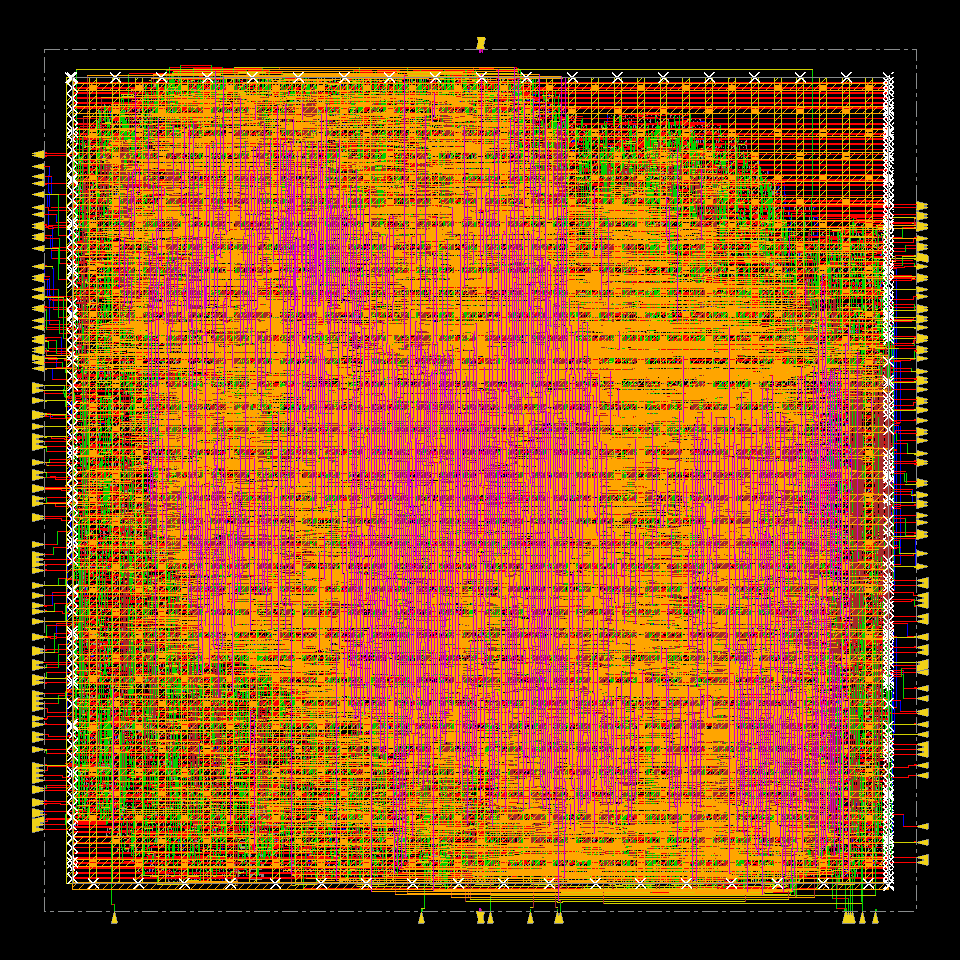
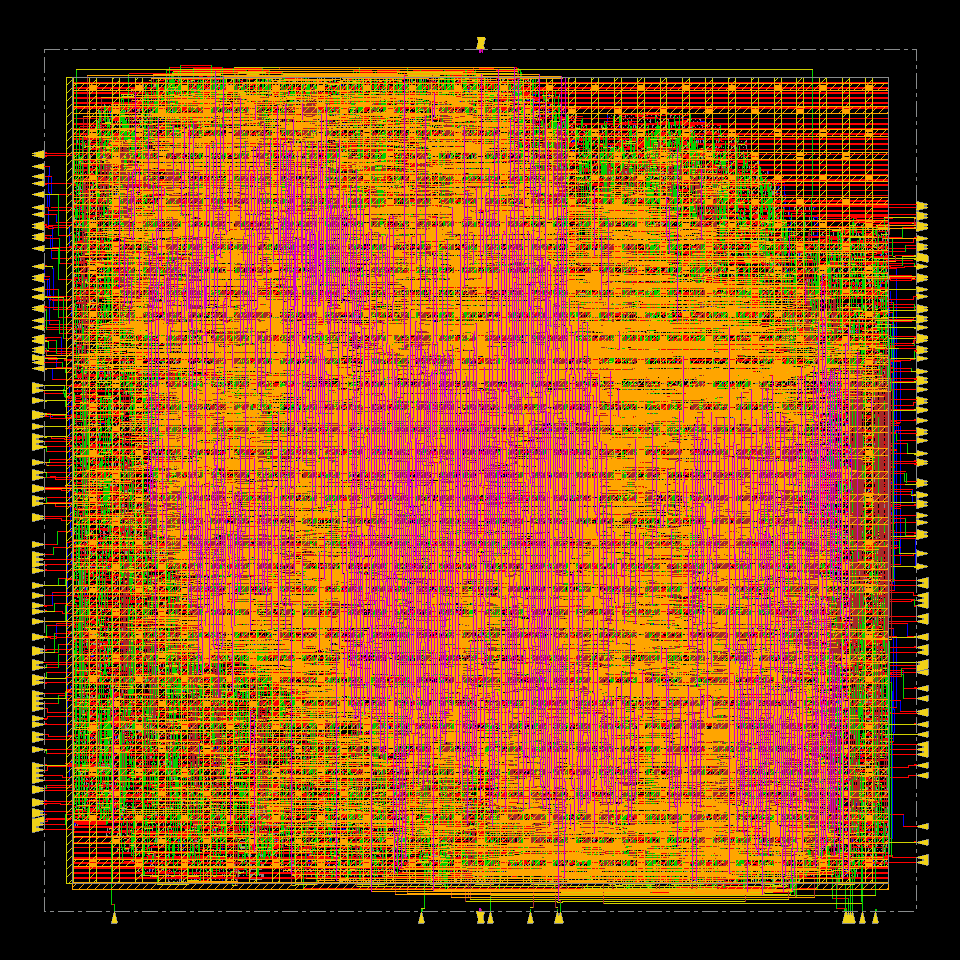
Show marker-free Innovus layouts across two process nodes

diff --git a/index.html b/index.html
@@ -8,8 +8,8 @@
   <meta name="robots" content="noindex,nofollow,noarchive">
   <title>CRAFT — Evidence into engineering</title>
   <link rel="icon" href="assets/craft-icon.svg?v=trace-2" type="image/svg+xml">
-  <link rel="stylesheet" href="styles.css?v=layouts-1">
-  <script src="app.js?v=layouts-1" defer></script>
+  <link rel="stylesheet" href="styles.css?v=layouts-2">
+  <script src="app.js?v=layouts-2" defer></script>
   <script src="pipeline.js?v=trace-2" defer></script>
 </head>
 <body>
@@ -30,7 +30,7 @@
       </div>
       <div class="hero-visual">
         <div class="visual-top"><span><span class="status-dot"></span> PHYSICAL EVIDENCE</span><span>28 nm / CPU TILE</span></div>
-        <div class="chip-window" role="img" aria-label="CPU Tile post-route layout exported from an actual CRAFT experiment in Innovus"></div>
+        <div class="chip-window" role="img" aria-label="Commercial 28 nm CPU Tile post-route layout exported from an actual CRAFT experiment in Innovus"></div>
         <div class="hero-loop"><span>Observe</span><b>→</b><span>Diagnose</span><b>→</b><span>Intervene</span><b>→</b><span>Verify</span></div>
         <div class="visual-bottom"><span>One decision.<br><strong>An inspectable evidence trail.</strong></span><a href="#trace" aria-label="Read the manuscript decision example">↗</a></div>
         <div class="visual-label">INNOVUS · POST-ROUTE SNAPSHOT</div>
@@ -126,13 +126,24 @@
       <noscript><p>Enable JavaScript to explore the numeric tables and decision trace. The original manuscript figures remain available below.</p></noscript>
     </div></section>
     <section class="layout-section" id="layouts"><div class="wrap section">
-      <div class="section-heading"><div><p class="eyebrow">06 / PHYSICAL IMPLEMENTATION</p><h2>From decisions<br><em>to routed designs.</em></h2></div><p>Selected post-route layouts from CRAFT experiments, exported directly from Innovus. Open a design to inspect the full-resolution image.</p></div>
-      <div class="final-layout-gallery" aria-label="Selected Innovus final layouts">
-        <figure class="final-layout-card"><button type="button" class="layout-open" data-layout="true" data-image="assets/innovus-cpu-tile-full.png" data-caption="CPU Tile · Innovus post-route layout" aria-label="Inspect CPU Tile final layout"><img src="assets/innovus-cpu-tile-preview.png" width="960" height="960" alt="CPU Tile routed layout from a CRAFT experiment, exported in Innovus" loading="lazy"><span>Inspect layout ↗</span></button><figcaption><strong>CPU Tile</strong><span>INNOVUS / POST-ROUTE</span></figcaption></figure>
-        <figure class="final-layout-card"><button type="button" class="layout-open" data-layout="true" data-image="assets/innovus-noc-router-full.png" data-caption="NoCRouter · Innovus post-route layout" aria-label="Inspect NoCRouter final layout"><img src="assets/innovus-noc-router-preview.png" width="960" height="960" alt="NoCRouter routed layout from a CRAFT experiment, exported in Innovus" loading="lazy"><span>Inspect layout ↗</span></button><figcaption><strong>NoCRouter</strong><span>INNOVUS / POST-ROUTE</span></figcaption></figure>
-        <figure class="final-layout-card"><button type="button" class="layout-open" data-layout="true" data-image="assets/innovus-riscv-cpu-full.png" data-caption="RISC-V CPU · Innovus post-route layout" aria-label="Inspect RISC-V CPU final layout"><img src="assets/innovus-riscv-cpu-preview.png" width="960" height="960" alt="RISC-V CPU routed layout from a CRAFT experiment, exported in Innovus" loading="lazy"><span>Inspect layout ↗</span></button><figcaption><strong>RISC-V CPU</strong><span>INNOVUS / POST-ROUTE</span></figcaption></figure>
+      <div class="section-heading"><div><p class="eyebrow">06 / PHYSICAL IMPLEMENTATION</p><h2>From decisions<br><em>to routed designs.</em></h2></div><p>Selected post-route layouts across SKY130 and commercial 28 nm, exported directly from CRAFT experiments in Innovus. Open a design to inspect the full-resolution image.</p></div>
+      <div class="layout-gallery-groups">
+        <section class="layout-node-group" aria-labelledby="layouts-sky130"><div class="layout-node-heading"><h3 id="layouts-sky130">SKY130</h3><span>INNOVUS / POST-ROUTE</span></div>
+          <div class="final-layout-gallery" aria-label="SKY130 final layouts">
+            <figure class="final-layout-card"><button type="button" class="layout-open" data-layout="true" data-image="assets/innovus-sky130-cpu-tile-full.png?v=layouts-2" data-caption="CPU Tile · SKY130 · Innovus post-route layout" aria-label="Inspect CPU Tile SKY130 final layout"><img src="assets/innovus-sky130-cpu-tile-preview.png?v=layouts-2" width="960" height="960" alt="CPU Tile SKY130 routed layout from a CRAFT experiment, exported in Innovus" loading="lazy"><span>Inspect layout ↗</span></button><figcaption><strong>CPU Tile</strong><span>SKY130</span></figcaption></figure>
+            <figure class="final-layout-card"><button type="button" class="layout-open" data-layout="true" data-image="assets/innovus-sky130-noc-router-full.png?v=layouts-2" data-caption="NoCRouter · SKY130 · Innovus post-route layout" aria-label="Inspect NoCRouter SKY130 final layout"><img src="assets/innovus-sky130-noc-router-preview.png?v=layouts-2" width="960" height="960" alt="NoCRouter SKY130 routed layout from a CRAFT experiment, exported in Innovus" loading="lazy"><span>Inspect layout ↗</span></button><figcaption><strong>NoCRouter</strong><span>SKY130</span></figcaption></figure>
+            <figure class="final-layout-card"><button type="button" class="layout-open" data-layout="true" data-image="assets/innovus-sky130-riscv-cpu-full.png?v=layouts-2" data-caption="RISC-V CPU · SKY130 · Innovus post-route layout" aria-label="Inspect RISC-V CPU SKY130 final layout"><img src="assets/innovus-sky130-riscv-cpu-preview.png?v=layouts-2" width="960" height="960" alt="RISC-V CPU SKY130 routed layout from a CRAFT experiment, exported in Innovus" loading="lazy"><span>Inspect layout ↗</span></button><figcaption><strong>RISC-V CPU</strong><span>SKY130</span></figcaption></figure>
+          </div>
+        </section>
+        <section class="layout-node-group" aria-labelledby="layouts-28nm"><div class="layout-node-heading"><h3 id="layouts-28nm">Commercial 28 nm</h3><span>INNOVUS / POST-ROUTE</span></div>
+          <div class="final-layout-gallery" aria-label="Commercial 28 nm final layouts">
+            <figure class="final-layout-card"><button type="button" class="layout-open" data-layout="true" data-image="assets/innovus-cpu-tile-full.png?v=layouts-2" data-caption="CPU Tile · Commercial 28 nm · Innovus post-route layout" aria-label="Inspect CPU Tile Commercial 28 nm final layout"><img src="assets/innovus-cpu-tile-preview.png?v=layouts-2" width="960" height="960" alt="CPU Tile Commercial 28 nm routed layout from a CRAFT experiment, exported in Innovus" loading="lazy"><span>Inspect layout ↗</span></button><figcaption><strong>CPU Tile</strong><span>Commercial 28 nm</span></figcaption></figure>
+            <figure class="final-layout-card"><button type="button" class="layout-open" data-layout="true" data-image="assets/innovus-noc-router-full.png?v=layouts-2" data-caption="NoCRouter · Commercial 28 nm · Innovus post-route layout" aria-label="Inspect NoCRouter Commercial 28 nm final layout"><img src="assets/innovus-noc-router-preview.png?v=layouts-2" width="960" height="960" alt="NoCRouter Commercial 28 nm routed layout from a CRAFT experiment, exported in Innovus" loading="lazy"><span>Inspect layout ↗</span></button><figcaption><strong>NoCRouter</strong><span>Commercial 28 nm</span></figcaption></figure>
+            <figure class="final-layout-card"><button type="button" class="layout-open" data-layout="true" data-image="assets/innovus-riscv-cpu-full.png?v=layouts-2" data-caption="RISC-V CPU · Commercial 28 nm · Innovus post-route layout" aria-label="Inspect RISC-V CPU Commercial 28 nm final layout"><img src="assets/innovus-riscv-cpu-preview.png?v=layouts-2" width="960" height="960" alt="RISC-V CPU Commercial 28 nm routed layout from a CRAFT experiment, exported in Innovus" loading="lazy"><span>Inspect layout ↗</span></button><figcaption><strong>RISC-V CPU</strong><span>Commercial 28 nm</span></figcaption></figure>
+          </div>
+        </section>
       </div>
-      <p class="layout-gallery-note">Experimental layout gallery · These snapshots are presented separately from the manuscript’s figure and numeric comparisons.</p>
+      <p class="layout-gallery-note">Experimental layout gallery · Display markers are cleared for viewing. These snapshots are separate from the manuscript’s numeric comparisons and do not indicate signoff status.</p>
       <div class="layout-manuscript-heading"><p class="eyebrow">FROM THE MANUSCRIPT</p><h3>Across toolchains.</h3><p>The original Yosys–OpenROAD layout comparison reported in Figure 6.</p></div>
       <figure class="paper-figure layout-figure"><button class="zoom-button" data-image="assets/fig6_layout.png" data-caption="Figure 6 · OpenROAD and CRAFT layouts on 28 nm" aria-label="Enlarge the complete layout comparison"><img src="assets/fig6_layout.png" alt="OpenROAD: CPU Tile WNS +9.42 ns, NoCRouter −6.69 ns. CRAFT: CPU Tile +10.09 ns, NoCRouter +9.11 ns." loading="lazy"><span class="zoom-hint">Inspect all four layouts ↗</span></button><figcaption>FIG. 06 <span>Original figure · CPU Tile and NoCRouter within each method. Source panels are approximately 300 × 300 pixels; enlarging the view does not add detail.</span></figcaption></figure>
       <div class="layout-readouts"><div><span class="eyebrow">CPU TILE / WNS</span><p>+9.42 <span>→</span> <strong>+10.09</strong> <small>ns</small></p></div><div><span class="eyebrow">NOCROUTER / WNS</span><p>−6.69 <span>→</span> <strong>+9.11</strong> <small>ns</small></p></div><p class="note">OpenROAD → CRAFT, as labeled in Figure 6. WNS is constraint-dependent; these labels alone do not establish a matched-condition speedup or signoff.</p></div>

diff --git a/styles.css b/styles.css
@@ -151,7 +151,7 @@ html{scroll-padding-top:105px}.header{height:82px;background:#f9fafff5;backdrop-
 @supports not (overflow:clip){.pipeline-demo{overflow:visible}}
 
 /* Actual Innovus exports, separate from the manuscript comparison. */
-.chip-window{width:100%;max-width:410px;aspect-ratio:1;height:auto;background-image:url('assets/innovus-cpu-tile-preview.png');background-color:#000;border-color:#d2dced}
+.chip-window{width:100%;max-width:410px;aspect-ratio:1;height:auto;background-image:url('assets/innovus-cpu-tile-preview.png?v=layouts-2');background-color:#000;border-color:#d2dced}
 .final-layout-gallery{display:grid;grid-template-columns:repeat(3,minmax(0,1fr));gap:22px}
 .final-layout-card{min-width:0;background:#fff;border:1px solid #cbd8ed;border-radius:10px;overflow:hidden;box-shadow:0 12px 30px -26px #24366f}
 .layout-open{display:block;position:relative;width:100%;padding:0;background:#000;text-align:left}
@@ -172,3 +172,6 @@ html{scroll-padding-top:105px}.header{height:82px;background:#f9fafff5;backdrop-
 .layout-dialog .dialog-image{background:#000;padding:0}
 @media(max-width:850px){.final-layout-gallery{gap:14px}.final-layout-card figcaption{padding:14px}.final-layout-card figcaption strong{font-size:16px}}
 @media(max-width:650px){.final-layout-gallery{grid-template-columns:1fr;gap:22px}.layout-gallery-note{font-size:10px}.dialog-head{flex-wrap:wrap;gap:10px}.dialog-tools{width:100%;justify-content:flex-start}.dialog-tools #close-dialog{margin-left:auto}.dialog-tools a{font-size:10px}.layout-dialog .dialog-image img{max-height:60vh}}
+
+.layout-gallery-groups{display:grid;gap:38px}.layout-node-heading{display:flex;align-items:center;justify-content:space-between;gap:16px;margin-bottom:18px}.layout-node-heading h3{font-size:24px;letter-spacing:-.6px}.layout-node-heading>span{font:9px var(--mono);letter-spacing:1px;color:var(--muted)}
+@media(max-width:650px){.layout-node-heading{align-items:flex-start;flex-direction:column;gap:8px}.layout-gallery-groups{gap:34px}}

diff --git a/README.md b/README.md
@@ -43,6 +43,6 @@ The five-stage diagram and an initial trace remain visible without JavaScript. M
 
 ## Innovus layout gallery
 
-Three selected post-route layouts—CPU Tile, NoCRouter and RISC-V CPU—are exported directly from existing CRAFT experiment checkpoints in Innovus. Each has a 960 × 960 preview and a 3000 × 3000 PNG for inspection and download. The image viewer supports fit-to-view and native resolution, loading full images only when opened.
+Six selected post-route layouts—CPU Tile, NoCRouter and RISC-V CPU at both SKY130 and Commercial 28 nm—are exported directly from existing CRAFT experiment checkpoints in Innovus. Each has a 960 × 960 preview and a 3000 × 3000 PNG for inspection and download. The image viewer supports fit-to-view and native resolution, loading full images only when opened.
 
-The gallery shows design names and images without timing or QoR numbers. It is separate from the manuscript’s Figure 6 and does not assert a row-by-row correspondence with its tables or a signoff result. Selection records and checkpoint provenance remain local; no design database, tool log, library or PDK is included in this website.
+The gallery groups layouts by process node and shows design names and images without timing or QoR numbers. DRC display markers are cleared in a disposable visualization session before export; the underlying checkpoints and measured DRC results are unchanged. The commercial technology is identified only as Commercial 28 nm. It is separate from the manuscript’s Figure 6 and does not assert a row-by-row correspondence with its tables or a signoff result. Selection records and checkpoint provenance remain local; no design database, tool log, library or PDK is included in this website.
